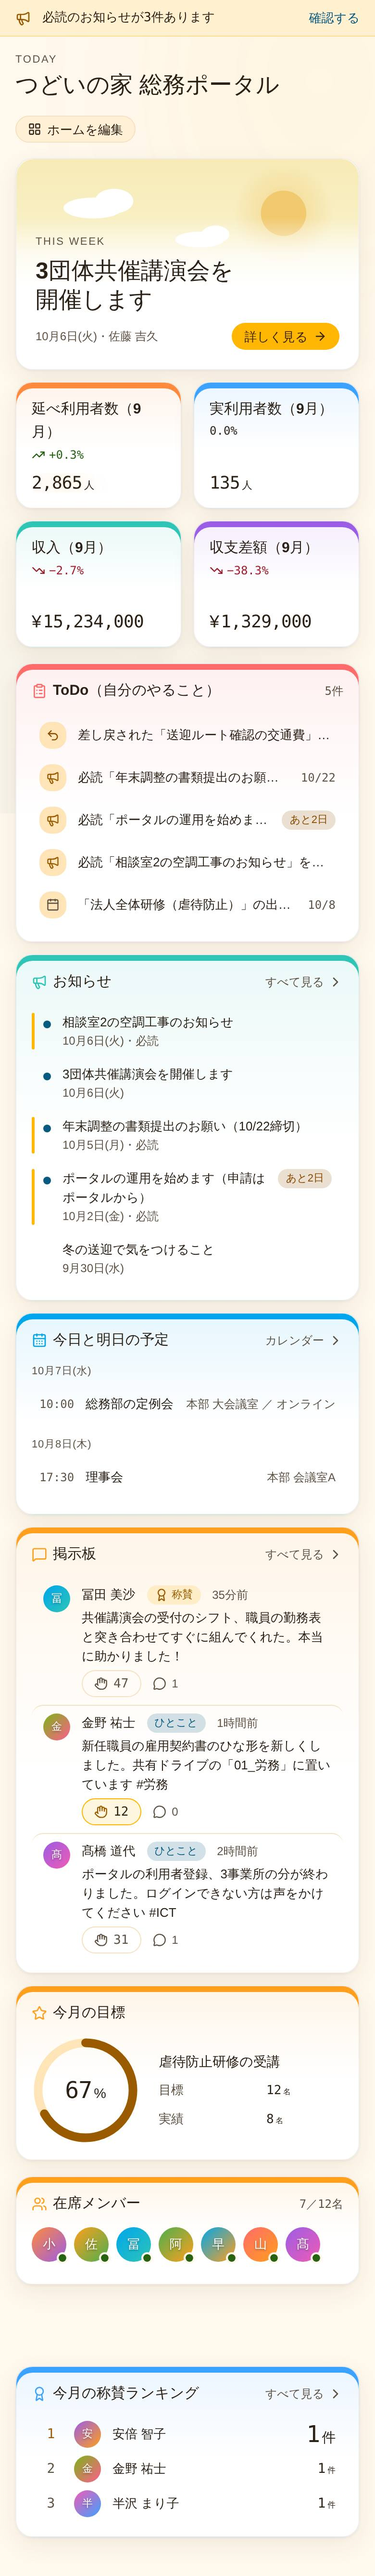
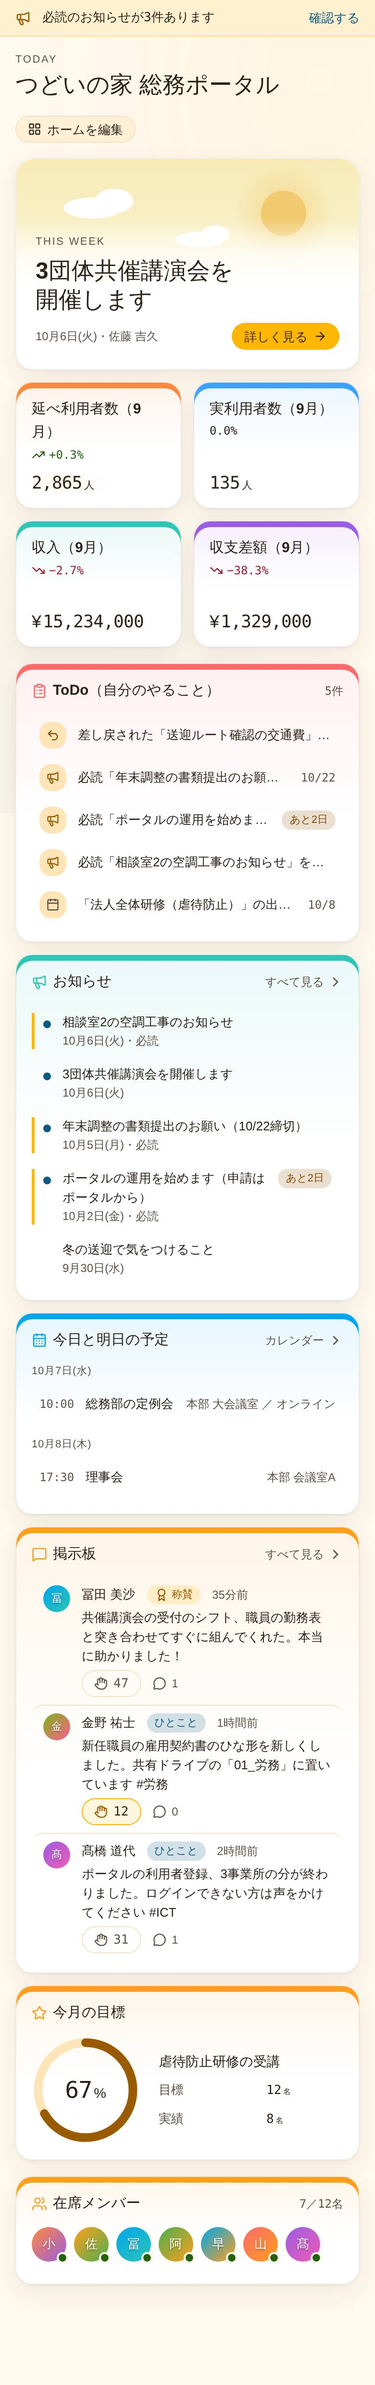
ホームから「今月の称賛ランキング」を外す
Claude-Session: https://claude.ai/code/session_01LRo7izU5ZcPscQicKQVd8b

Changed region(s): [[0.0308, 0.0, 0.9538, 0.9956], [0.8308, 0.0, 0.9538, 0.0311]]

diff --git a/index.html b/index.html
@@ -177,7 +177,7 @@ main { max-width: 520px; margin: 0 auto; padding-inline: 16px; padding-block: 14
   </section>
   <div class="screen-head"><h2 id="screen-title">ホーム</h2><span id="screen-count">1 / 12</span></div>
   <p class="screen-note" id="screen-note"></p>
-  <div class="shot"><div class="spots" id="spots"></div><img id="shot" src="img/home.jpg" alt="" width="780" height="5346" decoding="async"></div>
+  <div class="shot"><div class="spots" id="spots"></div><img id="shot" src="img/home.jpg" alt="" width="780" height="4950" decoding="async"></div>
   <div class="pager">
     <button type="button" id="prev">← 前の画面</button>
     <button type="button" class="next" id="next">次の画面 →</button>
@@ -240,7 +240,7 @@ main { max-width: 520px; margin: 0 auto; padding-inline: 16px; padding-block: 14
 <script>
 
 const SCREENS = [
-  { key: 'home', name: 'ホーム', h: 5346, note: 'カードをタップすると、ゆっくり持ち上がって大きく表示されます。利用者数や収支のカードでは事業所ごとの数字、ToDo のカードでは総務全体の進み具合も見られます。開くと最初に出る画面です。必読のお知らせ、自分のやること、利用者数や収支の数字、掲示板の新着が並びます。' },
+  { key: 'home', name: 'ホーム', h: 4950, note: 'カードをタップすると、ゆっくり持ち上がって大きく表示されます。利用者数や収支のカードでは事業所ごとの数字、ToDo のカードでは総務全体の進み具合も見られます。開くと最初に出る画面です。必読のお知らせ、自分のやること、利用者数や収支の数字、掲示板の新着が並びます。' },
   { key: 'notices', name: 'お知らせ', h: 1936, note: '法人内のお知らせの一覧です。必読のものは、誰が読んだかを総務で確認できます。' },
   { key: 'notice', name: 'お知らせ（詳細）', h: 2458, note: 'お知らせを開いたところです。読んだら「確認しました」を押します。' },
   { key: 'feed', name: '掲示板', h: 8104, note: '職員どうしの連絡や「ありがとう」を気軽に書き込める場所です。' },
@@ -340,7 +340,7 @@ function renderBoard() {
     $('groups').appendChild(g);
   }
 }
-const RECTS = {"home": [[16, 164, 358, 220, ""], [16, 396, 173, 132, "kpi"], [201, 396, 173, 132, "kpi"], [16, 540, 173, 132, "kpi"], [201, 540, 173, 132, "kpi"], [16, 688, 358, 290, "todo"], [16, 1584, 358, 464, ""], [16, 990, 358, 360, ""], [16, 2060, 358, 182, ""], [16, 1362, 358, 210, ""], [16, 2258, 358, 113, ""], [16, 2455, 358, 178, ""]], "notices": [[16, 290, 358, 646, ""]], "notice": [[16, 54, 358, 959, ""], [16, 1029, 358, 76, ""], [16, 1121, 358, 76, ""]], "feed": [[16, 310, 358, 257, ""], [16, 579, 358, 395, ""], [16, 986, 358, 395, ""], [16, 1394, 358, 257, ""], [16, 1663, 358, 177, ""], [16, 1852, 358, 177, ""], [16, 2041, 358, 177, ""], [16, 2230, 358, 371, ""], [16, 2613, 358, 177, ""], [16, 2802, 358, 371, ""], [16, 3185, 358, 371, ""], [16, 3568, 358, 451, ""]], "requests": [[16, 214, 358, 308, ""]], "calendar": [[16, 560, 358, 839, ""]], "members": [[16, 368, 173, 190, ""], [201, 368, 173, 190, ""], [16, 570, 173, 190, ""], [201, 570, 173, 190, ""], [16, 772, 173, 190, ""], [201, 772, 173, 190, ""], [16, 974, 173, 190, ""], [201, 974, 173, 190, ""], [16, 1176, 173, 190, ""], [201, 1176, 173, 190, ""], [16, 1378, 173, 190, ""], [201, 1378, 173, 190, ""]], "messages": [[16, 152, 358, 238, ""]], "trainings": [[16, 1242, 358, 158, ""], [16, 1412, 358, 158, ""], [16, 1582, 358, 158, ""], [16, 1752, 358, 158, ""], [16, 1922, 358, 158, ""], [16, 2092, 358, 158, ""]], "todos": [[16, 172, 358, 130, ""], [16, 326, 358, 116, ""], [16, 454, 358, 114, ""], [16, 580, 358, 114, ""], [16, 706, 358, 114, ""], [16, 832, 358, 114, ""], [16, 958, 358, 114, ""], [16, 1084, 358, 116, ""], [16, 1212, 358, 116, ""], [16, 1340, 358, 114, ""], [16, 1466, 358, 114, ""], [16, 1592, 358, 116, ""], [16, 1720, 358, 114, ""], [16, 1846, 358, 116, ""], [16, 2048, 358, 4597, ""]], "deadlines": [[16, 622, 358, 279, ""], [16, 913, 358, 279, ""], [16, 1204, 358, 350, ""], [16, 1566, 358, 350, ""], [16, 1928, 358, 279, ""], [16, 2219, 358, 439, ""], [16, 2670, 358, 350, ""], [16, 3032, 358, 279, ""], [16, 3323, 358, 350, ""], [16, 3685, 358, 528, ""], [16, 4225, 358, 279, ""], [16, 4516, 358, 279, ""], [16, 4855, 358, 1917, ""]], "kpi": [[16, 342, 358, 348, ""], [16, 714, 358, 814, ""]]};
+const RECTS = {"home": [[16, 164, 358, 220, ""], [16, 396, 173, 132, "kpi"], [201, 396, 173, 132, "kpi"], [16, 540, 173, 132, "kpi"], [201, 540, 173, 132, "kpi"], [16, 688, 358, 290, "todo"], [16, 1584, 358, 464, ""], [16, 990, 358, 360, ""], [16, 2060, 358, 182, ""], [16, 1362, 358, 210, ""], [16, 2258, 358, 113, ""]], "notices": [[16, 290, 358, 646, ""]], "notice": [[16, 54, 358, 959, ""], [16, 1029, 358, 76, ""], [16, 1121, 358, 76, ""]], "feed": [[16, 310, 358, 257, ""], [16, 579, 358, 395, ""], [16, 986, 358, 395, ""], [16, 1394, 358, 257, ""], [16, 1663, 358, 177, ""], [16, 1852, 358, 177, ""], [16, 2041, 358, 177, ""], [16, 2230, 358, 371, ""], [16, 2613, 358, 177, ""], [16, 2802, 358, 371, ""], [16, 3185, 358, 371, ""], [16, 3568, 358, 451, ""]], "requests": [[16, 214, 358, 308, ""]], "calendar": [[16, 560, 358, 839, ""]], "members": [[16, 368, 173, 190, ""], [201, 368, 173, 190, ""], [16, 570, 173, 190, ""], [201, 570, 173, 190, ""], [16, 772, 173, 190, ""], [201, 772, 173, 190, ""], [16, 974, 173, 190, ""], [201, 974, 173, 190, ""], [16, 1176, 173, 190, ""], [201, 1176, 173, 190, ""], [16, 1378, 173, 190, ""], [201, 1378, 173, 190, ""]], "messages": [[16, 152, 358, 238, ""]], "trainings": [[16, 1242, 358, 158, ""], [16, 1412, 358, 158, ""], [16, 1582, 358, 158, ""], [16, 1752, 358, 158, ""], [16, 1922, 358, 158, ""], [16, 2092, 358, 158, ""]], "todos": [[16, 172, 358, 130, ""], [16, 326, 358, 116, ""], [16, 454, 358, 114, ""], [16, 580, 358, 114, ""], [16, 706, 358, 114, ""], [16, 832, 358, 114, ""], [16, 958, 358, 114, ""], [16, 1084, 358, 116, ""], [16, 1212, 358, 116, ""], [16, 1340, 358, 114, ""], [16, 1466, 358, 114, ""], [16, 1592, 358, 116, ""], [16, 1720, 358, 114, ""], [16, 1846, 358, 116, ""], [16, 2048, 358, 4597, ""]], "deadlines": [[16, 622, 358, 279, ""], [16, 913, 358, 279, ""], [16, 1204, 358, 350, ""], [16, 1566, 358, 350, ""], [16, 1928, 358, 279, ""], [16, 2219, 358, 439, ""], [16, 2670, 358, 350, ""], [16, 3032, 358, 279, ""], [16, 3323, 358, 350, ""], [16, 3685, 358, 528, ""], [16, 4225, 358, 279, ""], [16, 4516, 358, 279, ""], [16, 4855, 358, 1917, ""]], "kpi": [[16, 342, 358, 348, ""], [16, 714, 358, 814, ""]]};
 const PAGE_W = 390;
 const EASE = 'cubic-bezier(.3, .7, .25, 1)';
 const SLOW = matchMedia('(prefers-reduced-motion: reduce)').matches ? 0 : 1100;
